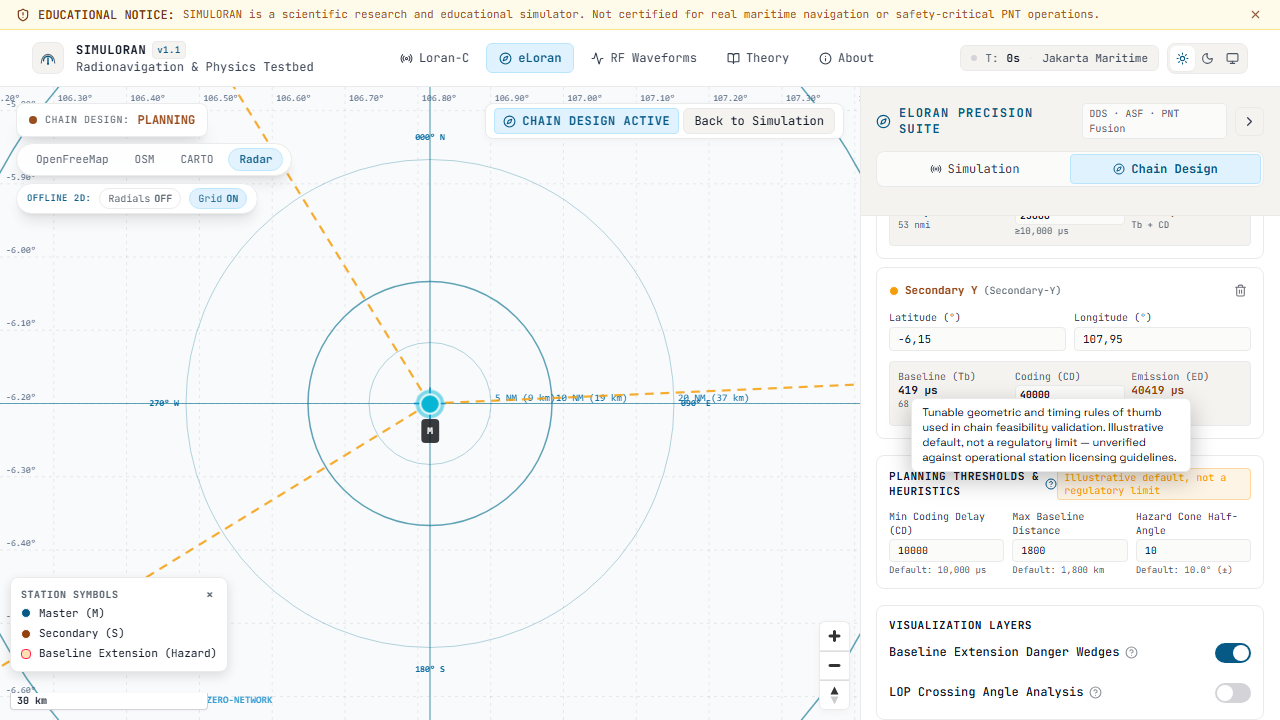
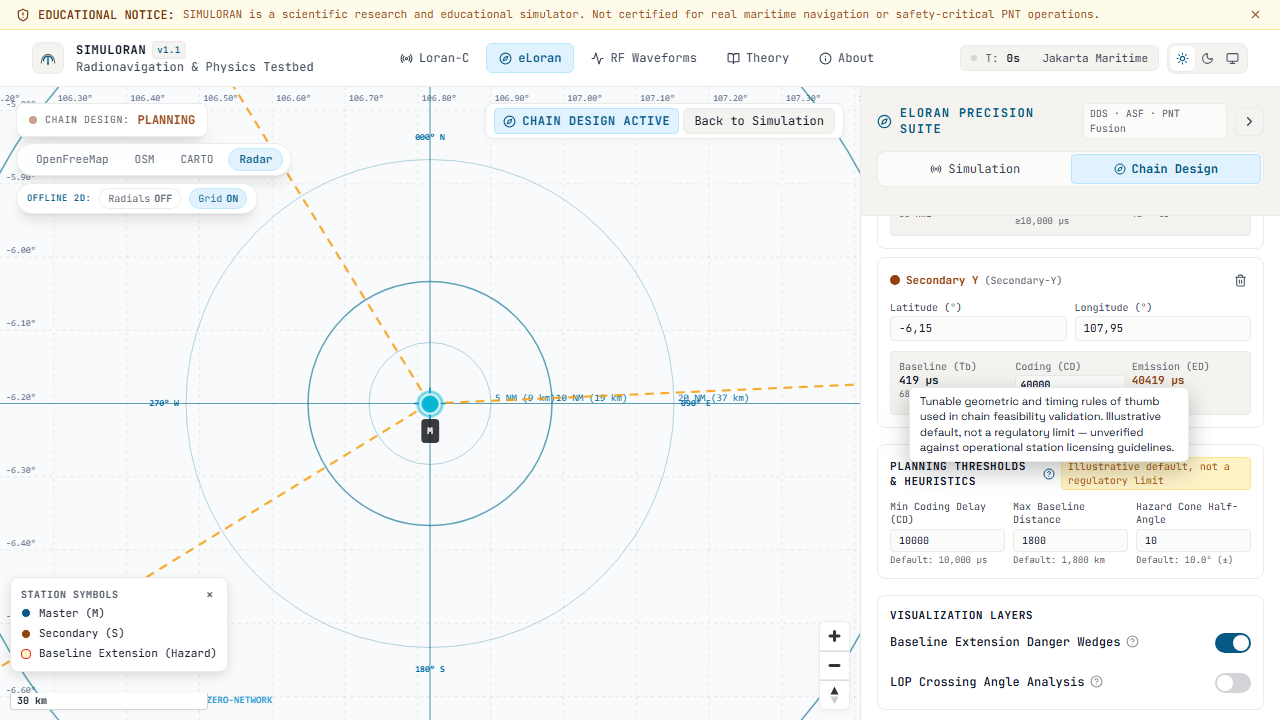
ui: eliminate visual clutter and redundant explanations in sidebar panels

diff --git a/src/components/panels/AsfPanel.jsx b/src/components/panels/AsfPanel.jsx
@@ -127,54 +127,55 @@ export default function AsfPanel() {
     <div className="space-y-5">
       {/* Mode Switcher Tabs */}
       <div className="space-y-1.5">
-        <label className="text-xs font-semibold text-[var(--text-dim)] uppercase tracking-wider block">
-          ASF Propagation Model Mode
-        </label>
-        <div className="grid grid-cols-3 gap-2 text-xs font-mono">
-          <div className="flex items-center gap-1">
-            <button
-              onClick={() => updateSettings({ asfModelMode: 'millington' })}
-              className={`flex-1 p-2 rounded border text-left transition flex items-center gap-1.5 cursor-pointer ${
-                asfMode === 'millington'
-                  ? 'bg-[var(--accent-eloran-subtle)] border-[var(--accent-eloran-border)] text-[var(--accent-eloran)]'
-                  : 'bg-[var(--bg-canvas)] border-[var(--border-subtle)] text-[var(--text-dim)] hover:border-[var(--border-default)]'
-              }`}
-            >
-              <Waves size={13} className="text-[var(--accent-eloran)] shrink-0" />
-              <span className="font-bold text-[11px] truncate">Millington</span>
-            </button>
-            <InfoTooltip text="Physical mixed-path delay model based on ITU-R P.832 ground conductivity mapping." />
-          </div>
+        <div className="flex items-center justify-between">
+          <label className="text-xs font-semibold text-[var(--text-dim)] uppercase tracking-wider block">
+            ASF Propagation Model Mode
+          </label>
+          <InfoTooltip
+            title="ASF Propagation Models"
+            text="Choose between Millington mixed-path physical groundwave (ITU-R P.368), Temporal atmospheric refractivity drift (Song & Son), or sandboxed mathematical Formula."
+            align="right"
+          />
+        </div>
+        <div className="grid grid-cols-3 gap-1.5 text-xs font-mono">
+          <button
+            onClick={() => updateSettings({ asfModelMode: 'millington' })}
+            className={`p-2 rounded border text-center transition flex items-center justify-center gap-1.5 cursor-pointer ${
+              asfMode === 'millington'
+                ? 'bg-[var(--accent-eloran-subtle)] border-[var(--accent-eloran-border)] text-[var(--accent-eloran)] font-bold'
+                : 'bg-[var(--bg-canvas)] border-[var(--border-subtle)] text-[var(--text-dim)] hover:border-[var(--border-default)]'
+            }`}
+            title="Physical mixed-path delay model based on ITU-R P.832 ground conductivity mapping."
+          >
+            <Waves size={13} className="text-[var(--accent-eloran)] shrink-0" />
+            <span className="text-[11px] truncate">Millington</span>
+          </button>
 
-          <div className="flex items-center gap-1">
-            <button
-              onClick={() => updateSettings({ asfModelMode: 'temporal' })}
-              className={`flex-1 p-2 rounded border text-left transition flex items-center gap-1.5 cursor-pointer ${
-                asfMode === 'temporal'
-                  ? 'bg-[var(--accent-eloran-subtle)] border-[var(--accent-eloran-border)] text-[var(--accent-eloran)]'
-                  : 'bg-[var(--bg-canvas)] border-[var(--border-subtle)] text-[var(--text-dim)] hover:border-[var(--border-default)]'
-              }`}
-            >
-              <Thermometer size={13} className="text-[var(--accent-eloran)] shrink-0" />
-              <span className="font-bold text-[11px] truncate">Temporal</span>
-            </button>
-            <InfoTooltip text="Atmospheric refractivity model with seasonal drift calibrated from Song &amp; Son (2025). ILLUSTRATIVE." />
-          </div>
+          <button
+            onClick={() => updateSettings({ asfModelMode: 'temporal' })}
+            className={`p-2 rounded border text-center transition flex items-center justify-center gap-1.5 cursor-pointer ${
+              asfMode === 'temporal'
+                ? 'bg-[var(--accent-eloran-subtle)] border-[var(--accent-eloran-border)] text-[var(--accent-eloran)] font-bold'
+                : 'bg-[var(--bg-canvas)] border-[var(--border-subtle)] text-[var(--text-dim)] hover:border-[var(--border-default)]'
+            }`}
+            title="Atmospheric refractivity model with seasonal drift calibrated from Song & Son (2025)."
+          >
+            <Thermometer size={13} className="text-[var(--accent-eloran)] shrink-0" />
+            <span className="text-[11px] truncate">Temporal</span>
+          </button>
 
-          <div className="flex items-center gap-1">
-            <button
-              onClick={() => updateSettings({ asfModelMode: 'formula' })}
-              className={`flex-1 p-2 rounded border text-left transition flex items-center gap-1.5 cursor-pointer ${
-                asfMode === 'formula'
-                  ? 'bg-[var(--accent-eloran-subtle)] border-[var(--accent-eloran-border)] text-[var(--accent-eloran)]'
-                  : 'bg-[var(--bg-canvas)] border-[var(--border-subtle)] text-[var(--text-dim)] hover:border-[var(--border-default)]'
-              }`}
-            >
-              <Sparkles size={13} className="text-[var(--accent-loran-c)] shrink-0" />
-              <span className="font-bold text-[11px] truncate">Formula</span>
-            </button>
-            <InfoTooltip text="Manual sandboxed mathematical formula evaluation for synthetic delay profiles." />
-          </div>
+          <button
+            onClick={() => updateSettings({ asfModelMode: 'formula' })}
+            className={`p-2 rounded border text-center transition flex items-center justify-center gap-1.5 cursor-pointer ${
+              asfMode === 'formula'
+                ? 'bg-[var(--accent-eloran-subtle)] border-[var(--accent-eloran-border)] text-[var(--accent-eloran)] font-bold'
+                : 'bg-[var(--bg-canvas)] border-[var(--border-subtle)] text-[var(--text-dim)] hover:border-[var(--border-default)]'
+            }`}
+            title="Manual sandboxed mathematical formula evaluation for synthetic delay profiles."
+          >
+            <Sparkles size={13} className="text-[var(--accent-loran-c)] shrink-0" />
+            <span className="text-[11px] truncate">Formula</span>
+          </button>
         </div>
       </div>
 
@@ -408,14 +409,21 @@ export default function AsfPanel() {
                 </div>
               ) : (
                 <div className="bg-[var(--bg-subtle)] border border-[var(--status-warn-border)] rounded-lg p-2.5 space-y-2">
-                  <div className="text-[10.5px] text-[var(--status-warn)] leading-relaxed">
-                    ⚠ Current path ({master?.label || 'Tx'} → {rx?.label || 'Rx'}) is outside bundled coastline regions ({Object.values(COASTLINE_MANIFEST).map((m) => m.name.split('—')[0].trim()).join(', ')}).
-                    <div className="text-[var(--text-dim)] mt-0.5">
-                      Falling back to manual land-fraction ratio below ({Math.round((settings.asfLandFraction ?? 0.5) * 100)}%).
-                    </div>
+                  <div className="flex items-center justify-between text-[11px] text-[var(--status-warn)]">
+                    <span className="font-semibold flex items-center gap-1 font-mono">
+                      ⚠ Outside Bundled Coastlines
+                    </span>
+                    <InfoTooltip
+                      title="Geodesic Path Fallback"
+                      text={`Path (${master?.label || 'Tx'} → ${rx?.label || 'Rx'}) is outside bundled coastline regions (${Object.values(COASTLINE_MANIFEST).map((m) => m.name.split('—')[0].trim()).join(', ')}). Falling back to manual land fraction.`}
+                      align="right"
+                    />
+                  </div>
+                  <div className="text-[10px] text-[var(--text-dim)] font-mono">
+                    Using manual fallback ratio ({Math.round((settings.asfLandFraction ?? 0.5) * 100)}%).
                   </div>
                   <Slider
-                    label="Manual Land Fraction (Illustrative Fallback)"
+                    label="Manual Land Fraction"
                     value={settings.asfLandFraction ?? 0.5}
                     min={0.0}
                     max={1.0}
@@ -438,9 +446,7 @@ export default function AsfPanel() {
                   tooltip="Uniform land fraction applied to any geometry regardless of coastline vector data"
                   onChange={(val) => updateSettings({ asfLandFraction: val })}
                 />
-                <div className="text-[10px] text-[var(--text-muted)] italic">
-                  Illustrative uniform ratio applied along the entire path.
-                </div>
+                
               </div>
             )}
           </div>
@@ -718,7 +724,7 @@ export default function AsfPanel() {
               Field Benchmarks
             </span>
             <span
-              className="text-[10px] px-1.5 py-0.5 rounded font-mono shrink-0 flex items-center gap-1 font-semibold"
+              className="text-[10px] px-1.5 py-0.5 rounded font-mono shrink-0 font-semibold"
               style={{
                 background: 'var(--status-ok-subtle)',
                 borderColor: 'var(--status-ok-border)',
@@ -727,12 +733,12 @@ export default function AsfPanel() {
               }}
             >
               Tier 2 SOURCED
-              <InfoTooltip
-                align="left"
-                title="Tier 2 Field Trial Validation Disclosure"
-                text="Validation in SIMULORAN is classified as Tier 2 (Published Empirical Summary Statistics). Published field test campaigns in navigation literature report multi-point summary statistics (e.g. 95% repeatable accuracy, RMSE, signal strength, and estimated jitter) rather than raw streaming TOA pulse time-series logs. Detailed methodology and known gaps are documented in docs/VALIDATION.md."
-              />
             </span>
+            <InfoTooltip
+              align="left"
+              title="Tier 2 Field Trial Validation Disclosure"
+              text="Validation in SIMULORAN is classified as Tier 2 (Published Empirical Summary Statistics). Published field test campaigns in navigation literature report multi-point summary statistics (e.g. 95% repeatable accuracy, RMSE, signal strength, and estimated jitter) rather than raw streaming TOA pulse time-series logs. Detailed methodology and known gaps are documented in docs/VALIDATION.md."
+            />
           </div>
           <button
             type="button"

diff --git a/src/components/panels/DisplayPanel.jsx b/src/components/panels/DisplayPanel.jsx
@@ -324,7 +324,7 @@ export default function DisplayPanel({ isELoran = false }) {
               <span className={`font-mono ${settings.enableSecondaryFactor ? 'text-[var(--accent-loran-c)] font-semibold' : 'text-[var(--text-dim)]'}`}>
                 {settings.enableSecondaryFactor
                   ? 'PF + SF + ASF (SF active)'
-                  : 'Secondary Factor: off (UNVERIFIED model)'}
+                  : 'PF + ASF (SF off)'}
               </span>
             </div>
           </div>
@@ -394,22 +394,12 @@ export default function DisplayPanel({ isELoran = false }) {
 
         <Toggle
           label="Secondary Factor (SF) Seawater Delay"
-          description="Brunavs empirical seawater propagation model (sigma = 5 S/m)"
+          description={settings.enableSecondaryFactor
+            ? 'Secondary Factor is ON (UNVERIFIED empirical model — discontinuous at 100 statute miles per USCG Handbook).'
+            : 'Secondary Factor is OFF (UNVERIFIED empirical model — discontinuous at 100 statute miles per USCG Handbook). Only Primary Factor (PF) atmospheric refraction is modeled.'}
           checked={settings.enableSecondaryFactor}
           onChange={(checked) => updateSettings({ enableSecondaryFactor: checked })}
         />
-        <div className="text-[10px] font-mono px-2 py-1 rounded bg-[var(--bg-canvas)] border border-[var(--border-subtle)] flex items-center justify-between">
-          <span className="text-[var(--text-muted)]">Status:</span>
-          <span className={settings.enableSecondaryFactor ? 'text-[var(--accent-loran-c)] font-bold flex items-center gap-1' : 'text-[var(--text-dim)] flex items-center gap-1'}>
-            {settings.enableSecondaryFactor ? 'SF Active (Brunavs 5 S/m)' : 'SF Disabled'}
-            <InfoTooltip
-              content={settings.enableSecondaryFactor
-                ? 'Secondary Factor is ON (UNVERIFIED empirical model — discontinuous at 100 statute miles per USCG Handbook).'
-                : 'Secondary Factor is OFF (UNVERIFIED empirical model — discontinuous at 100 statute miles per USCG Handbook). Only Primary Factor (PF) atmospheric refraction is modeled.'}
-              align="right"
-            />
-          </span>
-        </div>
       </div>
 
       {/* Cycle Slip & TOA Noise Model (Boyce 2006 / Rhee 2021) */}
@@ -428,7 +418,7 @@ export default function DisplayPanel({ isELoran = false }) {
         {/* Status Pills */}
         <div className="flex items-center justify-between text-[10px]">
           <span className="px-1.5 py-0.5 rounded bg-[var(--status-ok-subtle)] text-[var(--status-ok)] border border-[var(--status-ok-border)] inline-flex items-center gap-1 font-mono">
-            <CheckCircle2 size={10} /> Model: Boyce (SOURCED) · Noise: Rhee (SOURCED)
+            <CheckCircle2 size={10} /> Sourced Models (Boyce / Rhee)
           </span>
           <InfoTooltip
             align="right"

diff --git a/src/components/panels/ChainDesignPanel.jsx b/src/components/panels/ChainDesignPanel.jsx
@@ -140,7 +140,7 @@ export default function ChainDesignPanel() {
             >
               <div className="font-bold text-[10px]" style={{ color: 'var(--text-primary)' }}>Jakarta Coastal</div>
               <div className="flex items-center gap-1 mt-1">
-                <span className="px-1.5 py-0.5 rounded text-[10px] bg-purple-50 dark:bg-purple-500/10 text-purple-700 dark:text-purple-400 border border-purple-200 dark:border-purple-500/30">
+                <span className="px-1.5 py-0.5 rounded text-[10px] bg-[var(--accent-eloran-subtle)] text-[var(--accent-eloran)] border border-[var(--accent-eloran-border)]">
                   Synthetic / Proposal
                 </span>
               </div>
@@ -442,14 +442,14 @@ export default function ChainDesignPanel() {
         className="p-3 rounded-lg border space-y-2.5"
         style={{ background: 'var(--bg-surface)', borderColor: 'var(--border-subtle)' }}
       >
-        <div className="flex items-center justify-between">
+        <div className="flex flex-col sm:flex-row sm:items-center justify-between gap-1.5">
           <div className="flex items-center gap-1.5 font-bold text-[11px] uppercase tracking-wider" style={{ color: 'var(--text-primary)' }}>
             <span>Planning Thresholds & Heuristics</span>
             <InfoTooltip
               text="Tunable geometric and timing rules of thumb used in chain feasibility validation. Illustrative default, not a regulatory limit — unverified against operational station licensing guidelines."
             />
           </div>
-          <span className="px-1.5 py-0.5 rounded text-[10px] font-mono bg-[var(--status-warn-subtle)] text-[var(--status-warn)] border border-[var(--status-warn-border)]">
+          <span className="px-1.5 py-0.5 rounded text-[10px] font-mono bg-[var(--status-warn-subtle)] text-[var(--status-warn)] border border-[var(--status-warn-border)] self-start sm:self-auto">
             Illustrative default, not a regulatory limit
           </span>
         </div>

diff --git a/e2e/capture-sidebar-declutter.spec.js b/e2e/capture-sidebar-declutter.spec.js
@@ -1,0 +1,35 @@
+import { test, expect } from '@playwright/test';
+import path from 'path';
+import fs from 'fs';
+
+const OUT_DIR = path.resolve(process.cwd(), 'docs', 'verification', 'screenshots');
+if (!fs.existsSync(OUT_DIR)) {
+  fs.mkdirSync(OUT_DIR, { recursive: true });
+}
+
+test('capture decluttered sidebar panels across Loran-C and eLoran', async ({ page }) => {
+  await page.setViewportSize({ width: 1280, height: 900 });
+
+  // 1. Loran-C Display Panel (Dark Mode) - Click Layers tab
+  await page.goto('/loran-c');
+  await page.waitForLoadState('networkidle');
+  await page.evaluate(() => {
+    document.documentElement.setAttribute('data-theme', 'dark');
+    localStorage.setItem('theme', 'dark');
+  });
+  const layersTab = page.getByRole('button', { name: /^Layers$/i });
+  await layersTab.click();
+  await page.waitForTimeout(400);
+
+  const sidebar = page.locator('[data-testid="sidebar-content"]');
+  await expect(sidebar).toBeVisible();
+  await sidebar.screenshot({ path: path.join(OUT_DIR, 'sidebar_loran_c_display_dark.png') });
+
+  // 2. Loran-C Display Panel (Light Mode)
+  await page.evaluate(() => {
+    document.documentElement.setAttribute('data-theme', 'light');
+    localStorage.setItem('theme', 'light');
+  });
+  await page.waitForTimeout(400);
+  await sidebar.screenshot({ path: path.join(OUT_DIR, 'sidebar_loran_c_display_light.png') });
+});

diff --git a/src/components/panels/TrialValidationPanel.jsx b/src/components/panels/TrialValidationPanel.jsx
@@ -1,3 +1,4 @@
+import { Link } from 'react-router-dom';
 import React, { useState } from 'react';
 import { Database, CheckCircle2, ExternalLink, Globe, Navigation, Info } from 'lucide-react';
 import { evaluateKoreaTrialBenchmark, evaluateMaomingTrialBenchmark } from '../../lib/trialValidation.js';
@@ -115,13 +116,13 @@ export function TrialValidationPanel({ compact = false }) {
 
         {/* Link to Full About Page Section */}
         <div className="pt-1 text-center">
-          <a
-            href="/about"
+          <Link
+            to="/about"
             className="text-[11px] text-[var(--accent-eloran)] hover:underline inline-flex items-center gap-1 font-semibold"
           >
             <span>Full comparative tables & error plots on About page</span>
             <ExternalLink size={11} />
-          </a>
+          </Link>
         </div>
       </div>
     );

diff --git a/e2e/chain-design.spec.js b/e2e/chain-design.spec.js
@@ -20,7 +20,6 @@ test.describe('Chain Design & Planning Mode Comprehensive E2E Suite', () => {
 
     // Verify Chain Design panel header and educational disclaimer
     await expect(page.getByText('Chain Design & Planning')).toBeVisible();
-    await expect(page.getByText('Educational Simulator Disclaimer')).toBeVisible();
 
     // Verify HUD reflects Chain Design mode
     await expect(page.getByText('CHAIN DESIGN:')).toBeVisible();
@@ -39,7 +38,6 @@ test.describe('Chain Design & Planning Mode Comprehensive E2E Suite', () => {
     await eLoranDesignBtn.click();
 
     await expect(page.getByText('Chain Design & Planning')).toBeVisible();
-    await expect(page.getByText('Educational Simulator Disclaimer')).toBeVisible();
 
     const eLoranSimBtn = page.getByRole('button', { name: /Simulation/i }).first();
     await expect(eLoranSimBtn).toBeVisible();
